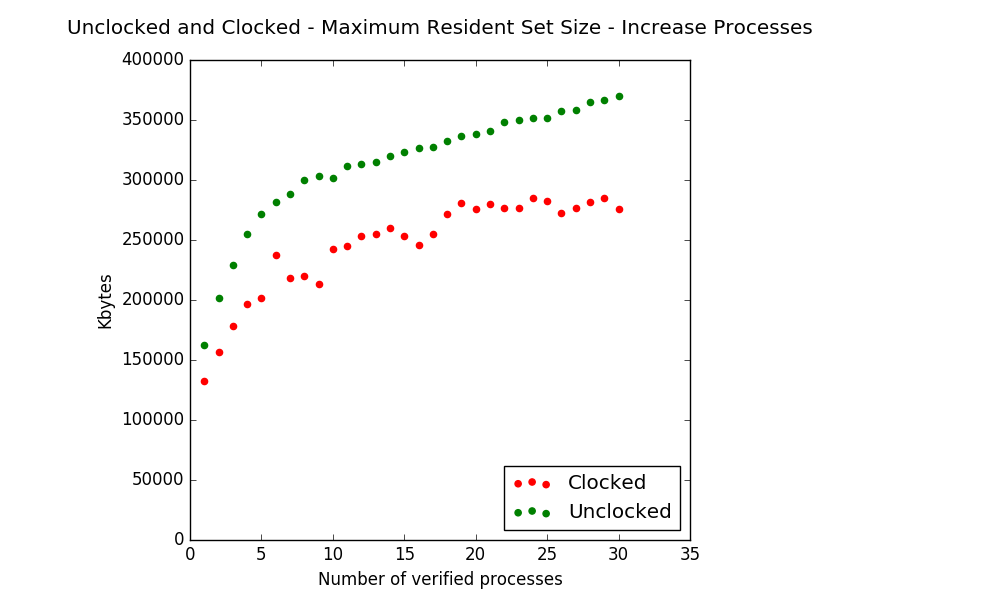
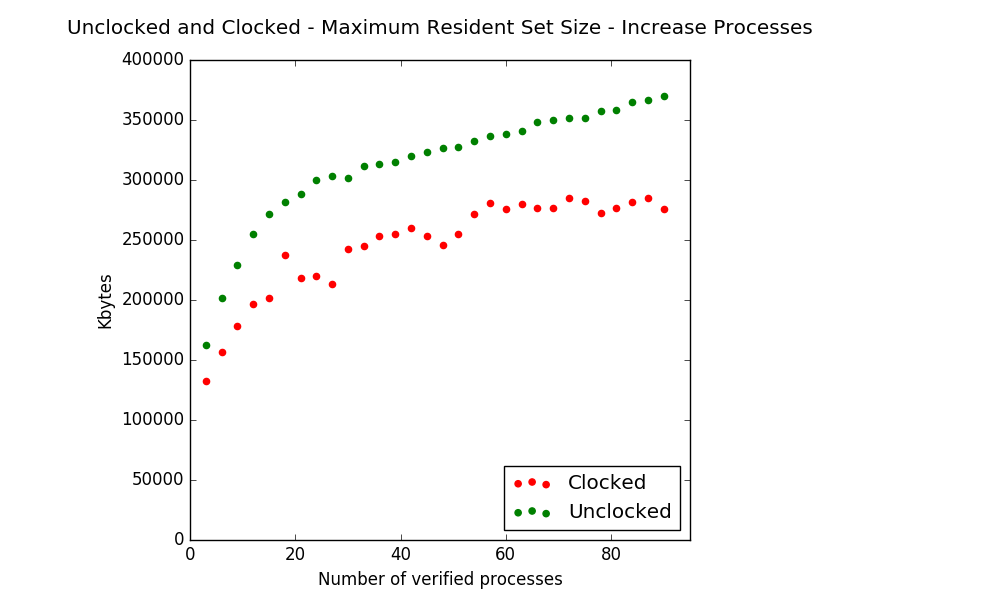
Updated slides

diff --git a/presentation/slides.tex b/presentation/slides.tex
@@ -484,11 +484,11 @@ read_monitor(c) =
 \end{frame}
 
 \begin{frame}{Unfortunate failures}
-  \begin{block}{}
-     Therac-25 (1980's): Unfortunate key combination and counter overflow caused hardware not to set up properly.
-  \end{block}
-
-  \pause
+  % \begin{block}{}
+  %    Therac-25 (1980's): Unfortunate key combination and counter overflow caused hardware not to set up properly.
+  % \end{block}
+  %
+  % \pause
 
   \begin{block}{}
      The Patriot Missile Failure (1991): Converting a integer to a floating point number within a 24 bit register.
@@ -626,7 +626,7 @@ read_monitor(c) =
     \pause
     \begin{block}{}
      The failures model:
-     Look at refusal sets for each trace. 
+     Look at refusal sets for each trace.
      % \\ $failures(\STOP) = (\emptyseq, \emptyset)$\\
      % $failures(\SKIP) = failures(\tick \then \STOP) = (\seq{\tick}, \{\tick\})$ \\
      % $failure(\STOP) \nsubseteq failures(\SKIP)$
@@ -782,38 +782,38 @@ read_monitor(c) =
          \end{columns}
 \end{frame}
 
-\begin{frame}{Verification time - Clocked and Original}
-         \begin{columns}[t, totalwidth=1.02\textwidth]
-             \begin{column}{0.50\linewidth}
-                 % \begin{block}{}
-\begin{figure}[!ht]
-     \centering
-     \includegraphics[scale=0.28]{figures/unclocked_verification_time.png}
-     \caption{Unclocked verification time}
-\end{figure}
-                 % \end{block}
-             \end{column}
-
-             \begin{column}{0.50\linewidth}
-                 % \begin{block}{Clocked TAPS}
-\begin{figure}[!ht]
-     \centering
-     \includegraphics[scale=0.28]{figures/clocked_verification_time.png}
-     \caption{Clocked verification time}
-\end{figure}
-                 % \end{block}
-             \end{column}
-
-         \end{columns}
-\end{frame}
-
+% \begin{frame}{Verification time - Clocked and Original}
+%          \begin{columns}[t, totalwidth=1.02\textwidth]
+%              \begin{column}{0.50\linewidth}
+%                  % \begin{block}{}
+% \begin{figure}[!ht]
+%      \centering
+%      \includegraphics[scale=0.28]{figures/unclocked_verification_time.png}
+%      \caption{Unclocked verification time}
+% \end{figure}
+%                  % \end{block}
+%              \end{column}
+%
+%              \begin{column}{0.50\linewidth}
+%                  % \begin{block}{Clocked TAPS}
+% \begin{figure}[!ht]
+%      \centering
+%      \includegraphics[scale=0.28]{figures/clocked_verification_time.png}
+%      \caption{Clocked verification time}
+% \end{figure}
+%                  % \end{block}
+%              \end{column}
+%
+%          \end{columns}
+% \end{frame}
+%
 \begin{frame}{Maximum resident set size - Clocked and Original}
          \begin{columns}[t, totalwidth=1.02\textwidth]
              \begin{column}{0.50\linewidth}
                  % \begin{block}{}
 \begin{figure}[!ht]
      \centering
-     \includegraphics[scale=0.28]{figures/unclocked_verification_time.png}
+     \includegraphics[scale=0.28]{figures/unclocked_size.png}
      \caption{Unclocked maximum resident set size}
 \end{figure}
                  % \end{block}
@@ -823,7 +823,7 @@ read_monitor(c) =
                  % \begin{block}{Clocked TAPS}
 \begin{figure}[!ht]
      \centering
-     \includegraphics[scale=0.28]{figures/clocked_verification_time.png}
+     \includegraphics[scale=0.28]{figures/clocked_size.png}
      \caption{Clocked maximum resident set size}
 \end{figure}
                  % \end{block}
@@ -833,24 +833,50 @@ read_monitor(c) =
 \end{frame}
 
 
-
 \begin{frame}{Increase in processes - Combined}
-    \begin{figure}[!ht]
-         \centering
-         \includegraphics[scale=0.3]{figures/combined_verification_time_increase_proccess.png}
-         \caption{Combined verification time}
-    \end{figure}
-
-\end{frame}
-
-
-\begin{frame}{Increase in processes - Combined}
+         \begin{columns}[t, totalwidth=1.02\textwidth]
+             \begin{column}{0.50\linewidth}
+                 % \begin{block}{}
 \begin{figure}[!ht]
      \centering
-     \includegraphics[scale=0.3]{figures/combined_size_time_increase_proccess.png}
+     \includegraphics[scale=0.28]{figures/combined_verification_time_increase_proccess.png}
+     \caption{Combined verification time}
+\end{figure}
+                 % \end{block}
+             \end{column}
+
+             \begin{column}{0.50\linewidth}
+                 % \begin{block}{Clocked TAPS}
+\begin{figure}[!ht]
+     \centering
+     \includegraphics[scale=0.28]{figures/combined_size_time_increase_proccess.png}
      \caption{Combined maximum resident set size}
 \end{figure}
+                 % \end{block}
+             \end{column}
+
+         \end{columns}
+
 \end{frame}
+
+
+% \begin{frame}{Increase in processes - Combined}
+%     \begin{figure}[!ht]
+%          \centering
+%          \includegraphics[scale=0.3]{figures/combined_verification_time_increase_proccess.png}
+%          \caption{Combined verification time}
+%     \end{figure}
+%
+% \end{frame}
+%
+%
+% \begin{frame}{Increase in processes - Combined}
+% \begin{figure}[!ht]
+%      \centering
+%      \includegraphics[scale=0.3]{figures/combined_size_time_increase_proccess.png}
+%      \caption{Combined maximum resident set size}
+% \end{figure}
+% \end{frame}
 
 %%%
 %%%%%%%%%%%%%%%%%%%%%%%
@@ -880,11 +906,7 @@ More experimentation is needed.
 %%% Future work
 \begin{frame}{Future work}
 
-\begin{block}{}
-Advanced assertions.
-\end{block}
 
-\pause
 
 \begin{block}{}
 Extend for co-simulation.
@@ -895,6 +917,13 @@ Extend for co-simulation.
 \begin{block}{}
 Exchange verified elements with equivalent smaller processes might reduce verification time.
 \end{block}
+
+\pause
+
+\begin{block}{}
+Advanced assertions.
+\end{block}
+
 
 
 \end{frame}
